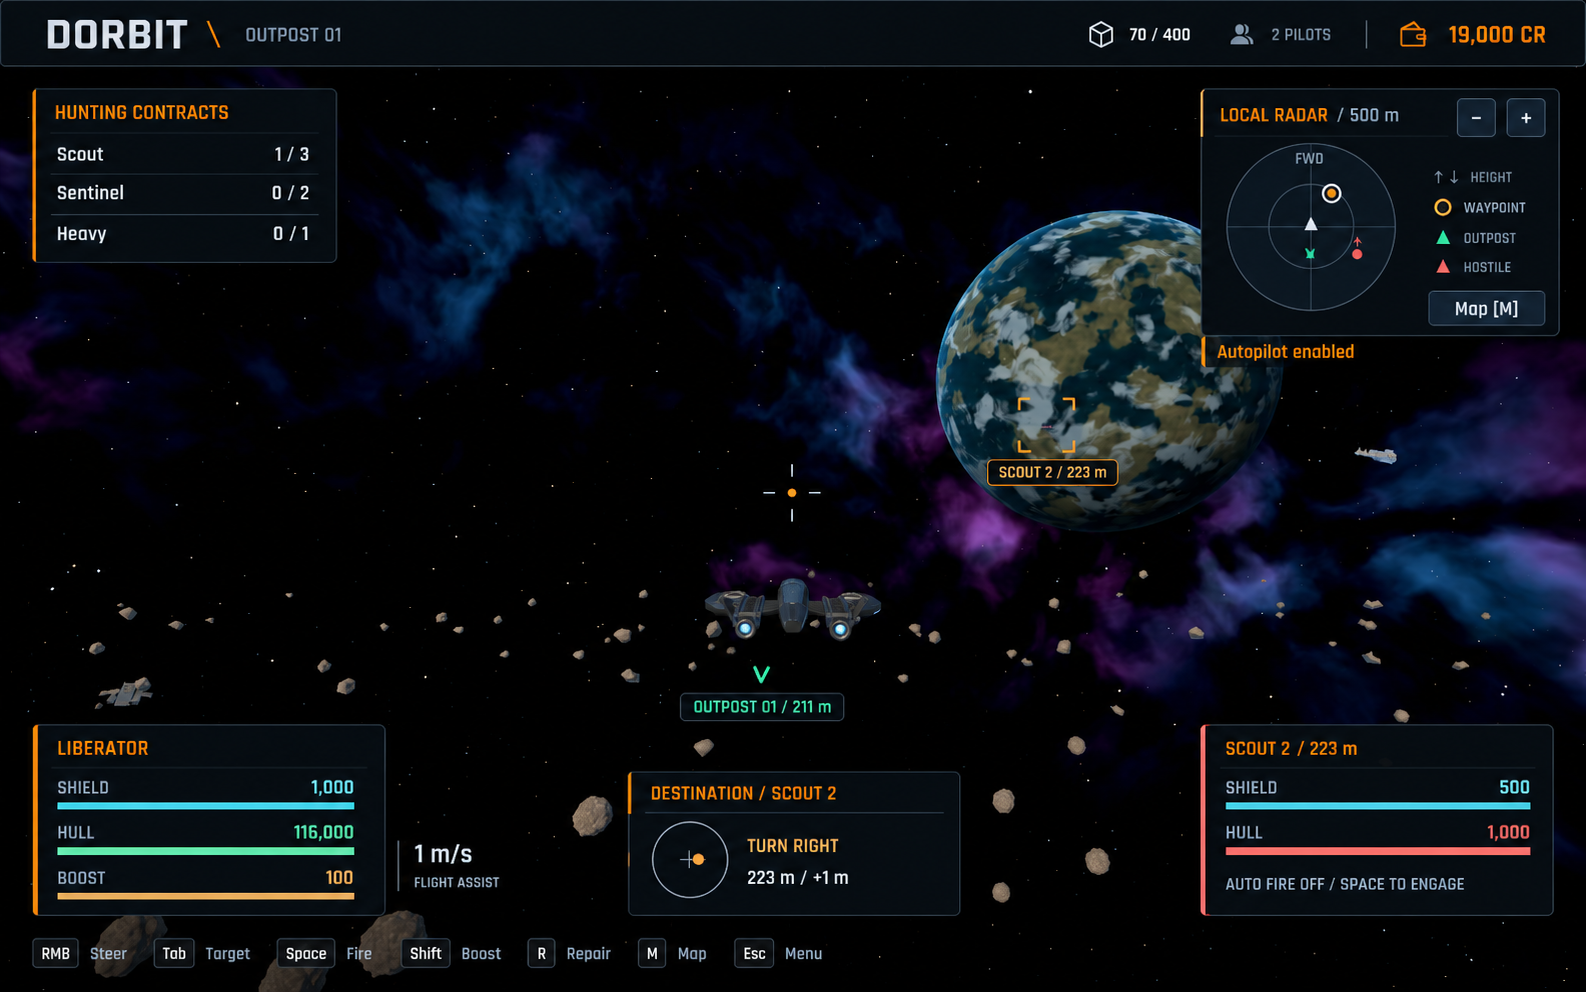
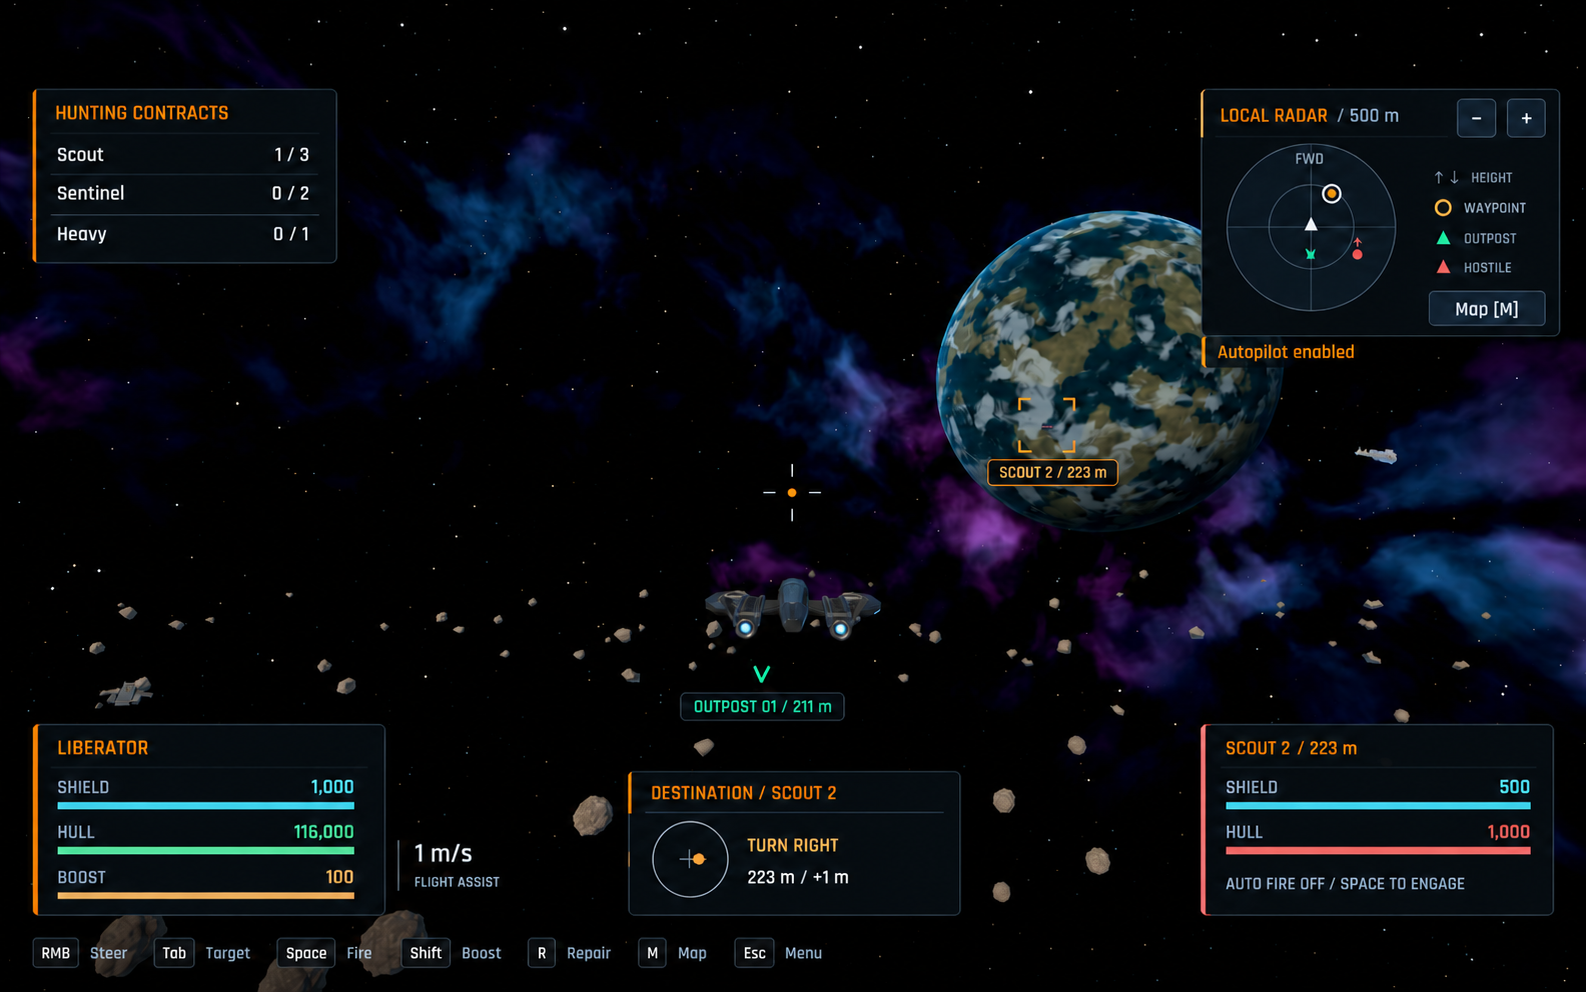
docs: remove the flight hud concept header

diff --git a/docs/hud-design/README.md b/docs/hud-design/README.md
@@ -2,7 +2,7 @@
 
 ![Graphite-and-amber flight HUD concept](flight-hud-concept.png)
 
-First proposal for the user's requested HUD redesign. Pending user review;
+Revised proposal for the user's requested HUD redesign. Pending user review;
 this is a generated reference image, not an implemented or approved screen.
 No gameplay code or agreed game-plan requirements change in this branch.
 
@@ -28,9 +28,13 @@ shields, green healthy hull/friendly contacts and red hostile hull/danger.
 Retain the top-right forward-up radar, its range controls, contact height
 arrows, Map action and small active-only autopilot label. Keep ship status,
 destination compass and target status along the bottom, with aligned bottom
-edges. Put concise active-contract progress at top left, cargo/connection/
-credits at top right, and control hints on a quiet bottom strip. Leave the
-central flight view open. No docked menu sidebar or Start action appears.
+edges. Put concise active-contract progress at top left and control hints on a
+quiet bottom strip. Leave the central flight view open.
+
+Following user review, remove the entire full-width header and extend the space
+background to the top edge. The logo, header outpost label, cargo count, pilot
+count and wallet are removed from this concept without relocating them. Keep
+the remaining HUD panels in place. No docked menu sidebar or Start action appears.
 
 Numbers illustrate existing game states; they do not change starter ownership,
 prices, tuning or saved progression. Three contracts show concurrent progress.
@@ -49,10 +53,13 @@ visual direction; it does not validate native layout or interactions.
 
 Generated with the built-in ImageGen tool using the three referenced local
 images: existing flight screenshot, PR 42 implemented Overview, and PR 41
-approved main-menu concept. The [exact prompt](flight-hud-generation-prompt.txt)
-is saved alongside the image. This directory is excluded from Godot imports.
+approved main-menu concept. The [original prompt](flight-hud-generation-prompt.txt)
+is saved alongside the image. A subsequent built-in ImageGen edit removed the
+header at the user's request; its [exact edit prompt](flight-hud-header-removal-prompt.txt)
+supersedes the original prompt's header instruction. This directory is excluded
+from Godot imports.
 
 Visually inspected the concept for graphite/amber styling, retained health,
-radar/navigation/target/contract information and aligned bottom panels. PNG
-integrity and documentation/diff checks apply. Gameplay and runtime layout
+radar/navigation/target/contract information, aligned bottom panels and header
+removal. PNG integrity and documentation/diff checks apply. Gameplay and runtime layout
 testing belong to the subsequent implementation, after concept review.
